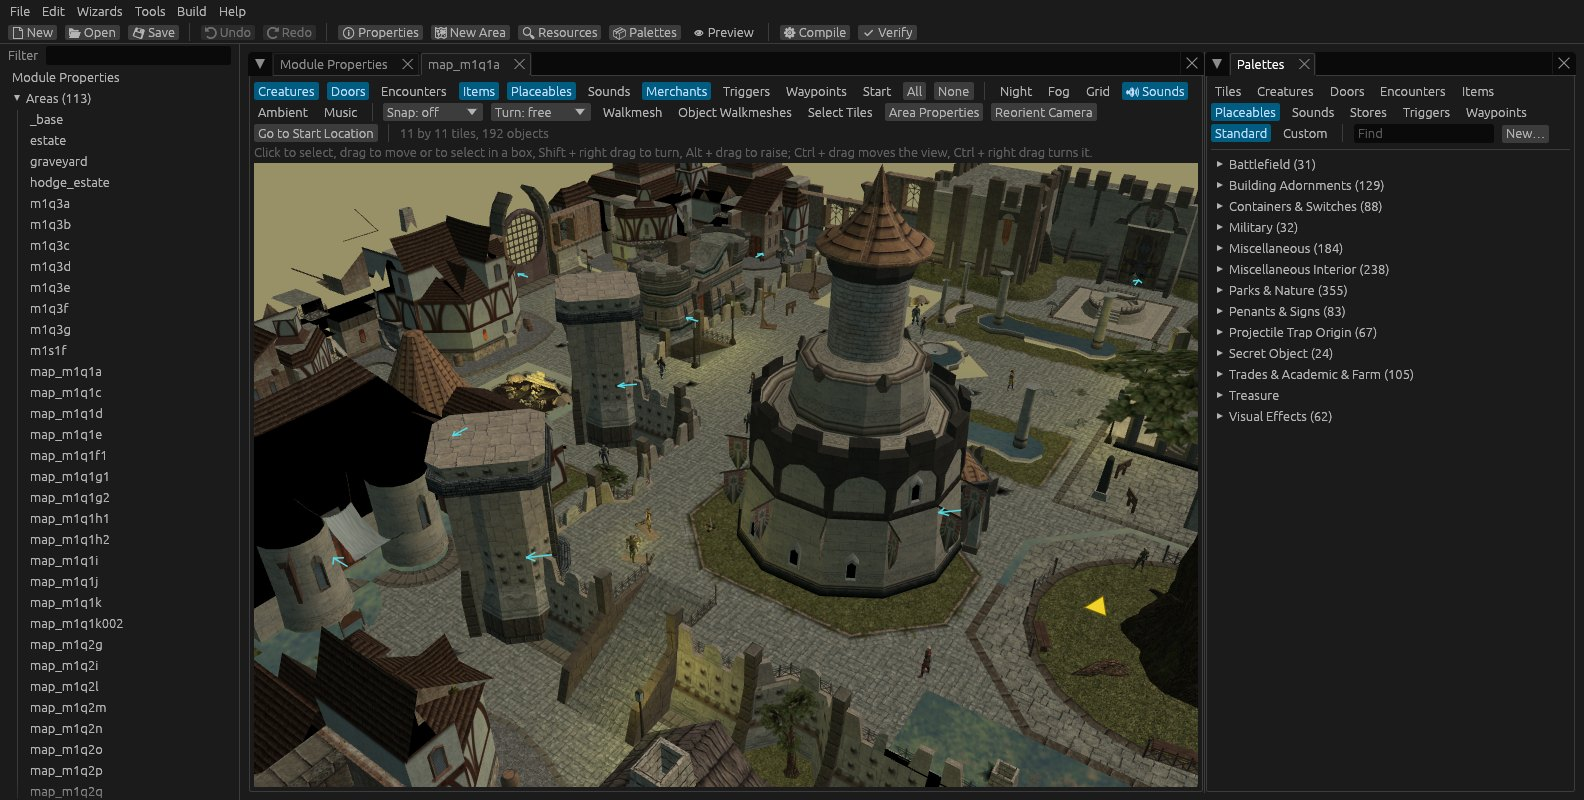
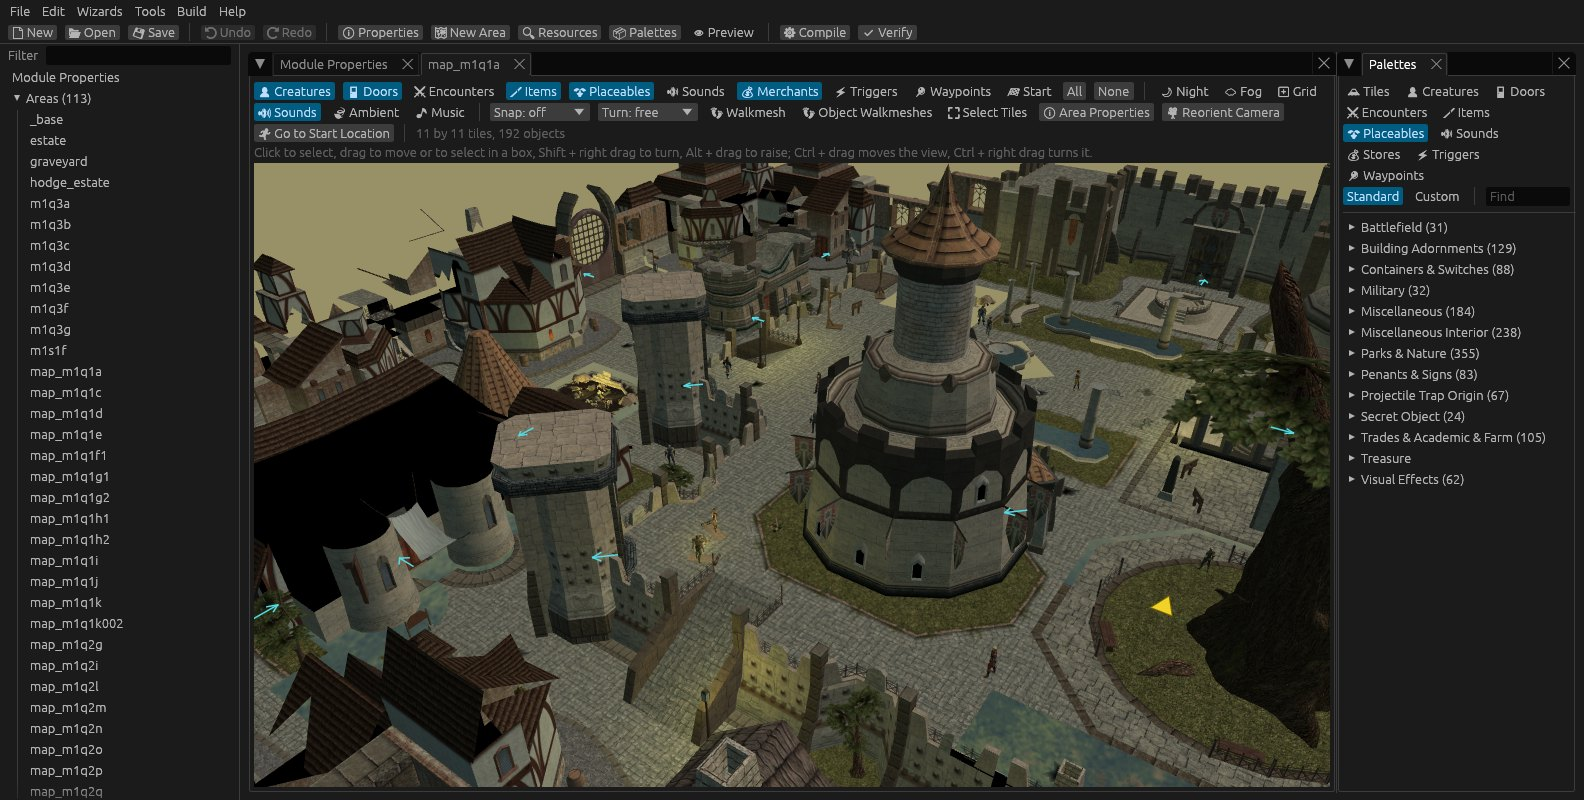
README screenshots of the current toolset; room below a portrait
- The README's screenshots are taken anew: the toolbars' icons, bold
  labels, the palette on Tiles. The palette pane, which now opens with a
  module, is kept out of the editor windows' shots.
- The Portrait row of creature, placeable and door editors has a little
  room below, so the picture doesn't sit flush on Conversation.

diff --git a/crates/mg-ui/src/blueprint/situated.rs b/crates/mg-ui/src/blueprint/situated.rs
@@ -167,31 +167,38 @@ pub(super) fn portrait(f: &mut Form<'_>, ui: &mut Ui) {
     let filter_id = egui::Id::new(("portrait-filter", f.key));
     let pick_id = egui::Id::new(("portrait-pick", f.key));
     let mut pick = None;
-    ui.horizontal(|ui| {
-        if let Some(b) = current.and_then(base) {
-            portrait_image(f, ui, &b.to_lowercase(), 'm', 32.0, egui::Sense::hover());
-        }
-        egui::ComboBox::from_id_salt(("portrait", f.key))
-            .selected_text(shown)
-            .width(200.0)
-            .show_ui(ui, |ui| {
-                let mut filter: String = ui.data(|d| d.get_temp(filter_id)).unwrap_or_default();
-                ui.add(egui::TextEdit::singleline(&mut filter).hint_text("Filter"));
-                ui.data_mut(|d| d.insert_temp(filter_id, filter.clone()));
-                let filter = filter.to_lowercase();
-                for (row, b) in choices.iter().filter(|(_, b)| b.to_lowercase().contains(&filter)) {
-                    if ui.selectable_label(current == Some(*row), *b).clicked() {
-                        pick = Some(*row);
+    // A little room below, so the picture doesn't sit on the next row.
+    ui.vertical(|ui| {
+        ui.horizontal(|ui| {
+            if let Some(b) = current.and_then(base) {
+                portrait_image(f, ui, &b.to_lowercase(), 'm', 32.0, egui::Sense::hover());
+            }
+            egui::ComboBox::from_id_salt(("portrait", f.key))
+                .selected_text(shown)
+                .width(200.0)
+                .show_ui(ui, |ui| {
+                    let mut filter: String = ui.data(|d| d.get_temp(filter_id)).unwrap_or_default();
+                    ui.add(egui::TextEdit::singleline(&mut filter).hint_text("Filter"));
+                    ui.data_mut(|d| d.insert_temp(filter_id, filter.clone()));
+                    let filter = filter.to_lowercase();
+                    for (row, b) in
+                        choices.iter().filter(|(_, b)| b.to_lowercase().contains(&filter))
+                    {
+                        if ui.selectable_label(current == Some(*row), *b).clicked() {
+                            pick = Some(*row);
+                        }
                     }
-                }
-            });
-        if ui.button("Portraits…").on_hover_text("Select Portrait").clicked() {
-            // Placeables and doors start on their own portraits.
-            let inanimate = f.root.get("Appearance_Type").is_none();
-            let mode = if inanimate { 1 } else { 0 };
-            let state = PortraitPick { open: true, mode, chosen: current, ..Default::default() };
-            ui.data_mut(|d| d.insert_temp(pick_id, state));
-        }
+                });
+            if ui.button("Portraits…").on_hover_text("Select Portrait").clicked() {
+                // Placeables and doors start on their own portraits.
+                let inanimate = f.root.get("Appearance_Type").is_none();
+                let mode = if inanimate { 1 } else { 0 };
+                let state =
+                    PortraitPick { open: true, mode, chosen: current, ..Default::default() };
+                ui.data_mut(|d| d.insert_temp(pick_id, state));
+            }
+        });
+        ui.add_space(6.0);
     });
     let mut state: PortraitPick = ui.data(|d| d.get_temp(pick_id)).unwrap_or_default();
     if state.open {

diff --git a/crates/mg-ui/tests/screens.rs b/crates/mg-ui/tests/screens.rs
@@ -1082,6 +1082,9 @@ fn readme_screenshots() {
         );
         app.set_render_state(rs.clone());
         app.open_module(&chapter);
+        // (The area's shot opens the palette beside it; the others are
+        // windows alone.)
+        app.open_palette = false;
         let mut h = Harness::builder()
             .with_size(egui::vec2(1600.0, 960.0))
             .renderer(egui_kittest::wgpu::WgpuTestRenderer::from_render_state(rs))
